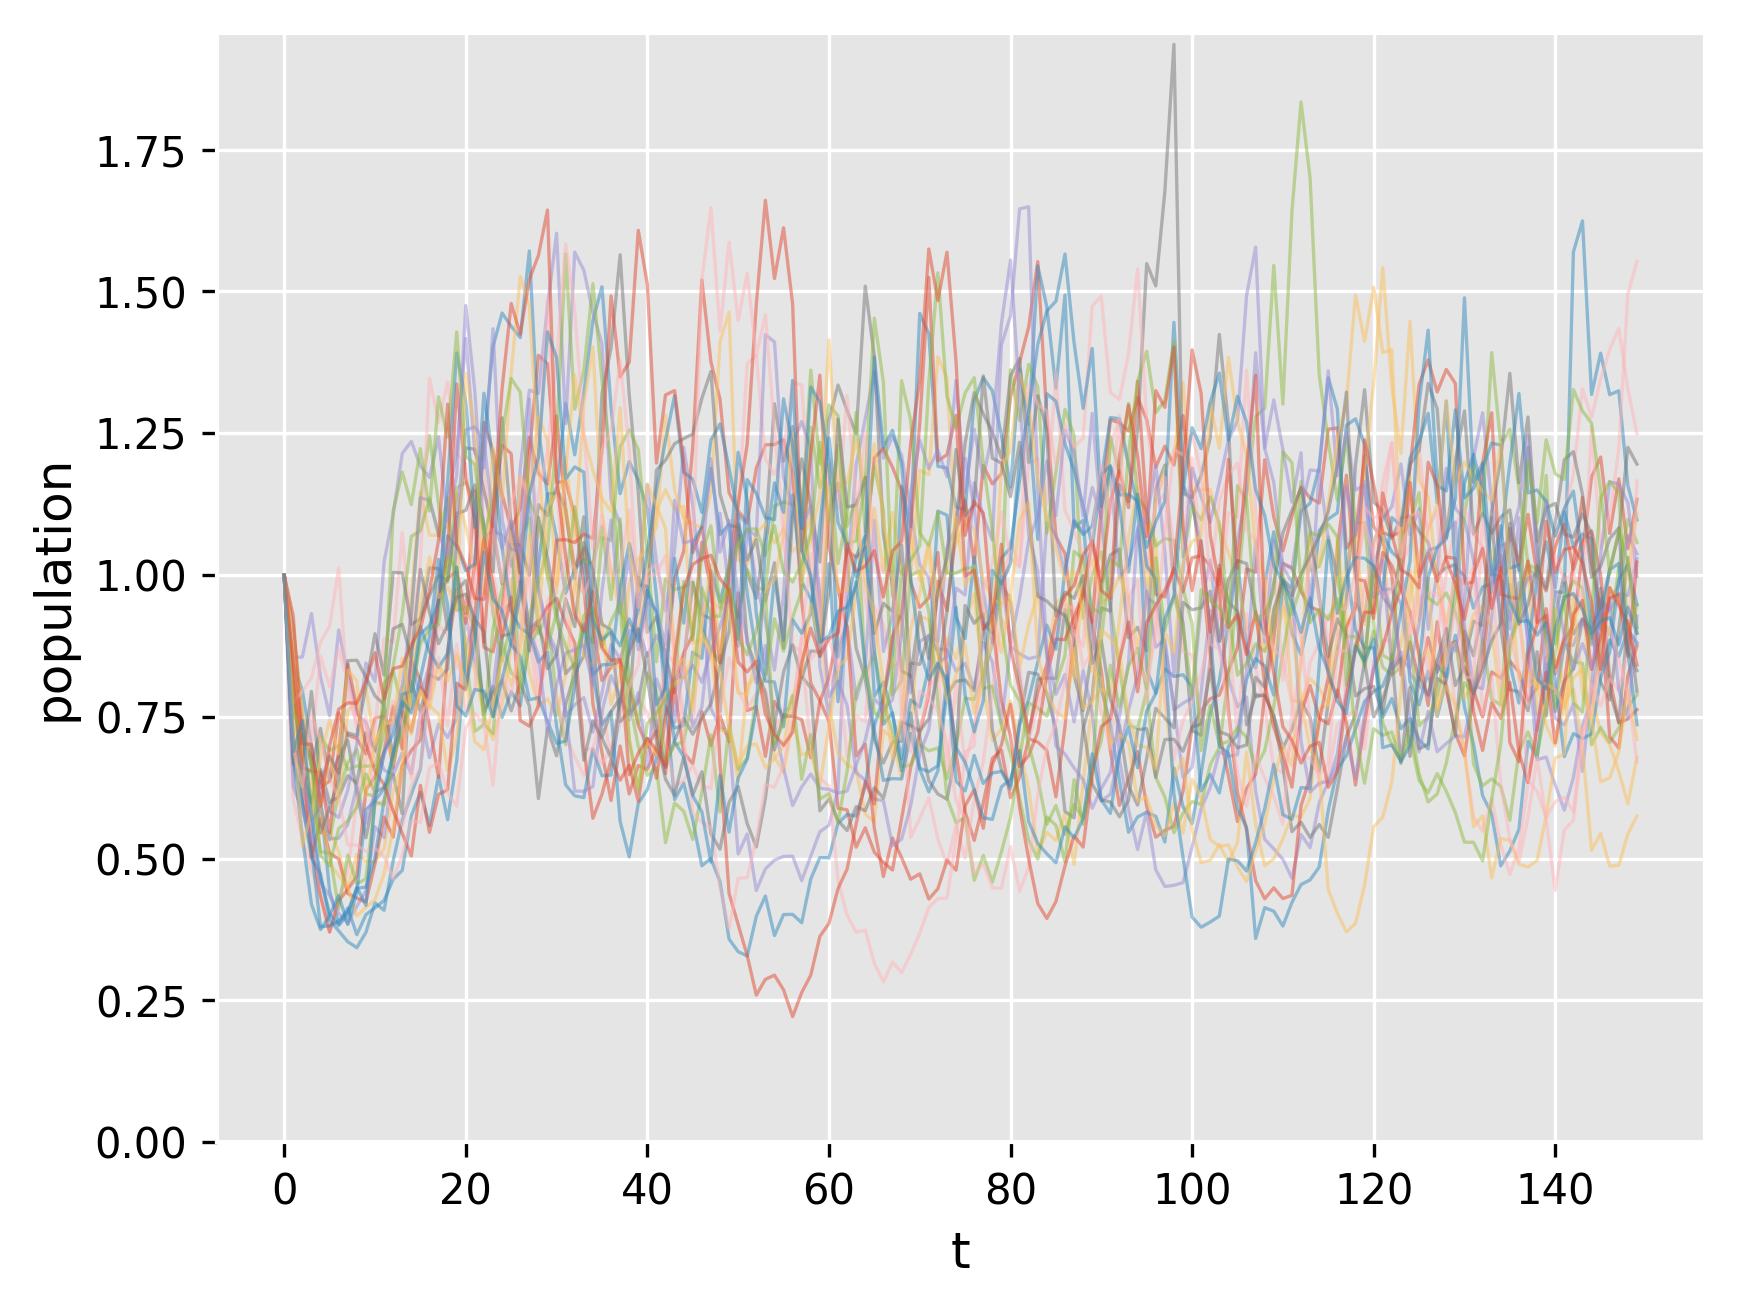
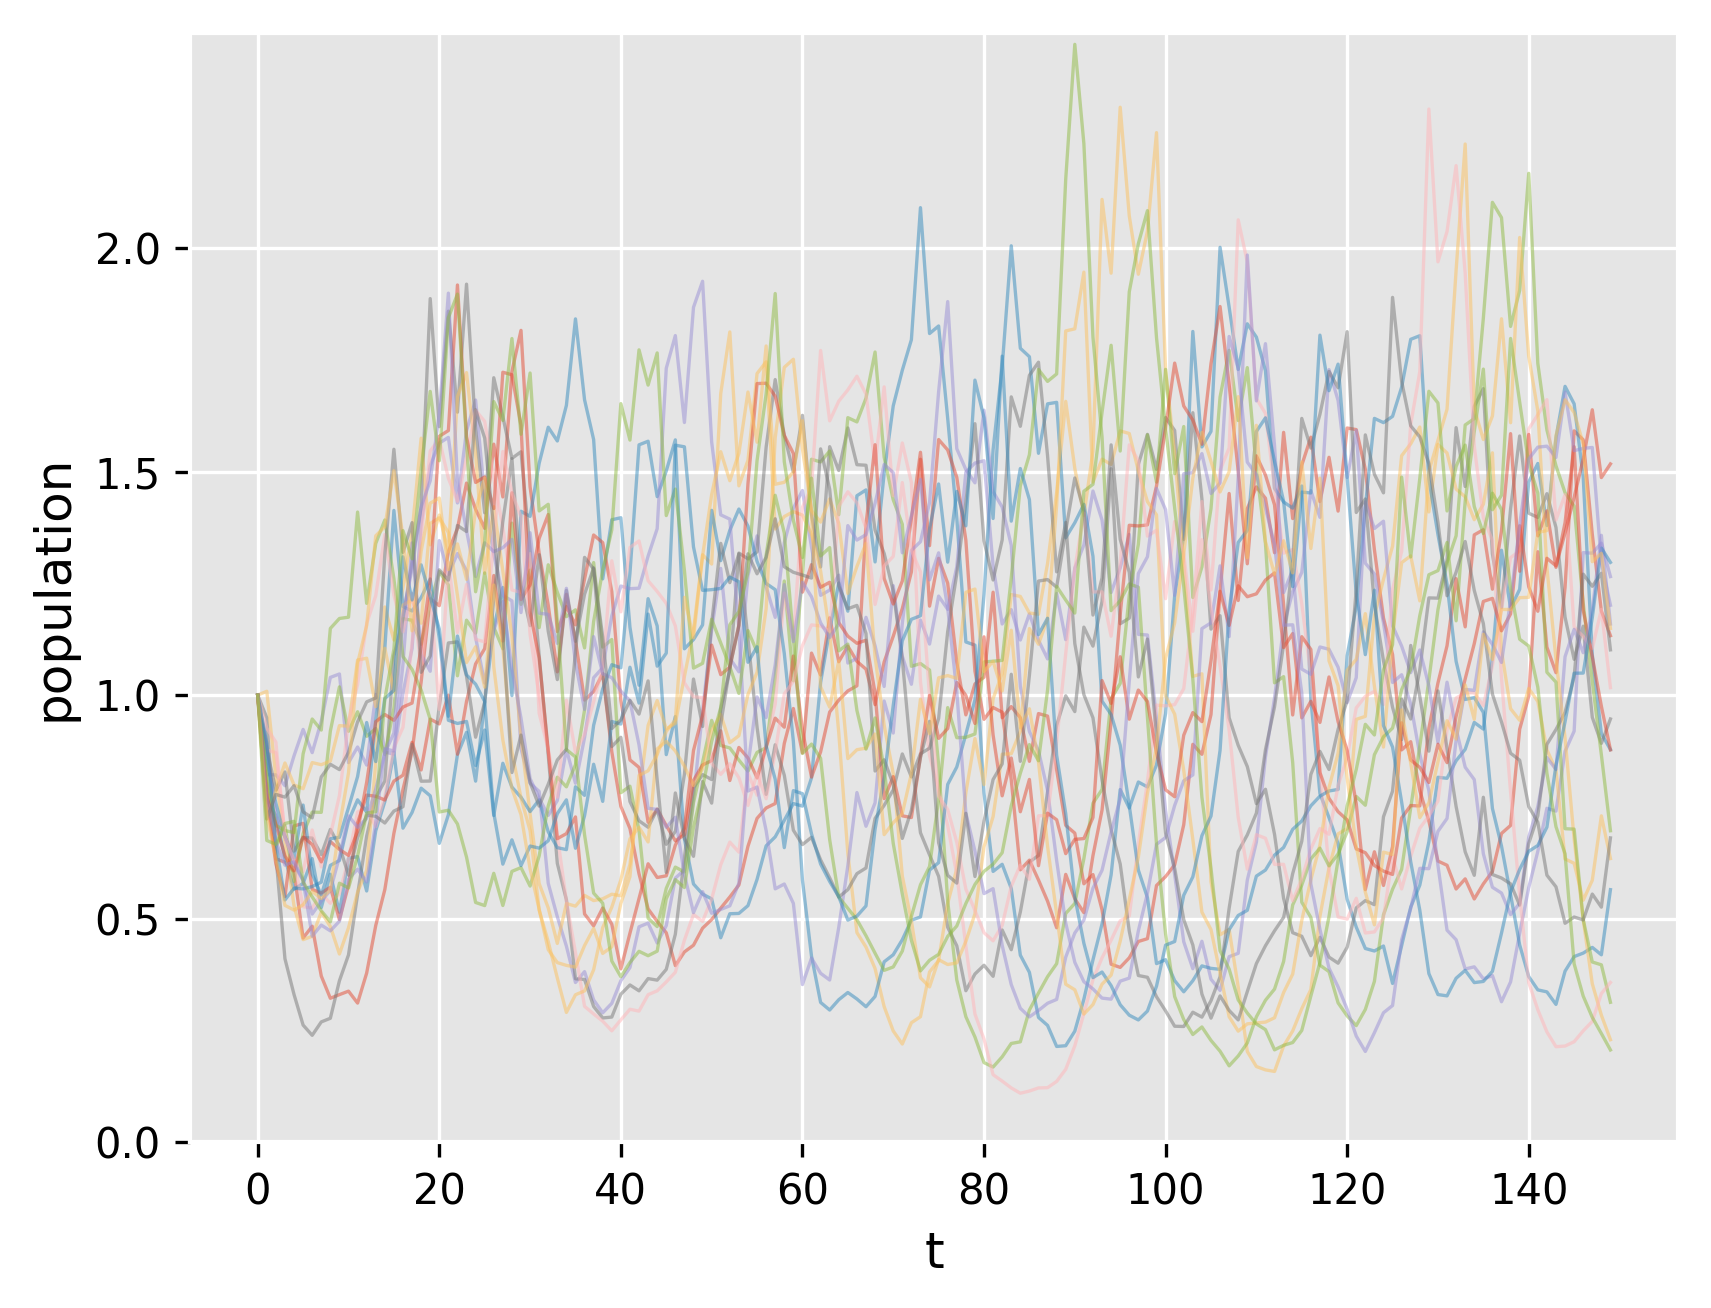
Add simulation results for w=0.1

diff --git a/tools/compare_results.py b/tools/compare_results.py
@@ -16,28 +16,25 @@ mpl.rcParams['ytick.color'] = '#000000'
 mpl.rcParams['legend.facecolor'] = '#ffffff'
 mpl.rcParams['lines.linewidth'] = 0.8
 
-DATA_FILES = ['output/0/data.npy', 'output/1/data.npy']
+DATA_FILES = ['../whale_3sukumi/output/0/data.npy',
+              '../whale_3sukumi/output/1/data.npy',
+              '../whale_3sukumi/output/2/data.npy']
 
 
 def main() -> None:
-    data_0 = np.load(DATA_FILES[0])
-    data_1 = np.load(DATA_FILES[1])
+    all_data = [np.load(f) for f in DATA_FILES]
 
-    data_0_mins = np.min(data_0, axis=1)
-    data_1_mins = np.min(data_1, axis=1)
-
-    output_dir = 'output/compare_results'
+    output_dir = '../whale_3sukumi/output/compare_results'
     os.makedirs(output_dir, exist_ok=True)
 
     for i in range(3):
         output_file = os.path.join(output_dir, 'compare_{}.png'.format(i))
 
-        data_0_min = data_0_mins[:, i]
-        data_1_min = data_1_mins[:, i]
+        each_mins = [np.min(data[:, :, i], axis=1) for data in all_data]
 
         ax = plt.gca()
-        ax.boxplot([data_0_min, data_1_min])
-        ax.set_xticklabels(['without consumption', 'with consumption'])
+        ax.boxplot(each_mins)
+        ax.set_xticklabels(['w=0.0', 'w=0.1', 'w=0.2'])
 
         plt.ylim([0, None])
         plt.ylabel('minimum population')

diff --git a/README.md b/README.md
@@ -24,33 +24,42 @@ Lotka-Volterra方程式の変形による魚種交代のシミュレーション
 ただし、z(t)はホワイトノイズである。
 
 この式を用いて、tを0から150まで変化させた時の各魚種の個体数の変化を計測した。
-また、鯨類の摂餌行動による影響を見るため、w=0(摂餌なし)の場合とw=0.2(摂餌あり)の2パターンに対して、30回ずつシミュレーションを行い、結果を比較した。
+また、鯨類の摂餌行動による影響を見るため、w=0(摂餌なし)の場合とw=0.1, 0.2(摂餌あり)の3パターンに対して、30回ずつシミュレーションを行い、結果を比較した。
 
 ## 実験結果
 
 ### 魚種1
 
-#### 摂餌なし
+#### w=0
 ![](./images/0/alpha_merged_0.png)
 
-#### 摂餌あり
+#### w=0.1
 ![](./images/1/alpha_merged_0.png)
+
+#### w=0.2
+![](./images/2/alpha_merged_0.png)
 
 ### 魚種2
 
-#### 摂餌なし
+#### w=0
 ![](./images/0/alpha_merged_1.png)
 
-#### 摂餌あり
+#### w=0.1
 ![](./images/1/alpha_merged_1.png)
+
+#### w=0.2
+![](./images/2/alpha_merged_1.png)
 
 ### 魚種3
 
-#### 摂餌なし
+#### w=0
 ![](./images/0/alpha_merged_2.png)
 
-#### 摂餌あり
+#### w=0.1
 ![](./images/1/alpha_merged_2.png)
+
+#### w=0.2
+![](./images/2/alpha_merged_2.png)
 
 ### 個体数最低値の分布
 
